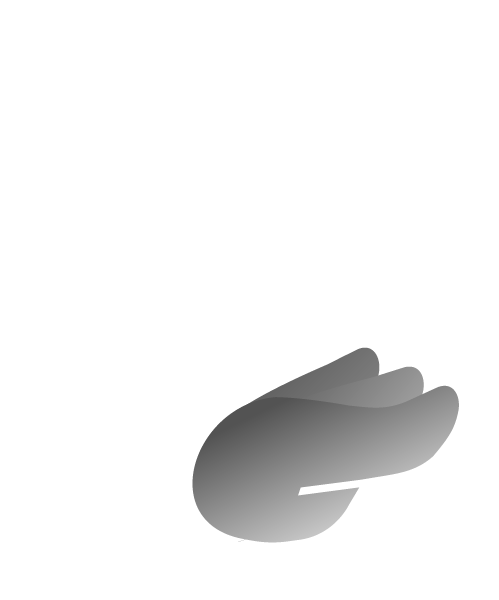
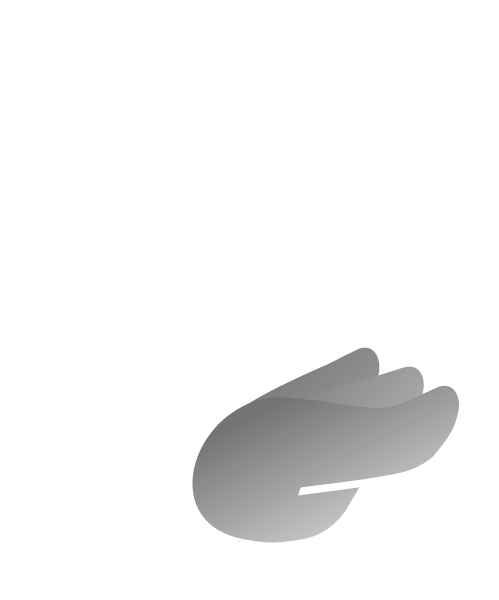
Modify the duck generator
Changes the gradient and increases light of the ducks, making them less
dark

Changed region(s): [[0.3908, 0.6, 0.6914, 0.81]]

diff --git a/aaaaAAAA/procedural_duckies.py b/aaaaAAAA/procedural_duckies.py
@@ -83,7 +83,8 @@ class ProceduralDuckyGenerator:
     def make_color(hue: float, dark_variant: bool) -> tuple[float, float, float]:
         """Make a nice hls color to use in a duck."""
         saturation = 1
-        lightness = random.uniform(.5, .65)
+        lightness = random.uniform(.7, .85)
+
         # green and blue do not like high lightness, so we adjust this depending on how far from blue-green we are
         # hue_fix is the square of the distance between the hue and cyan (0.5 hue)
         hue_fix = (1 - abs(hue - 0.5))**2
